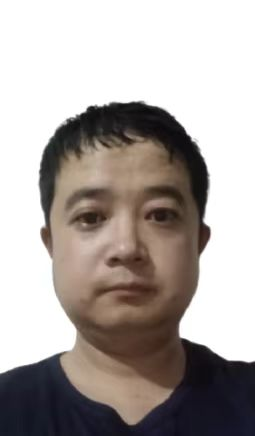
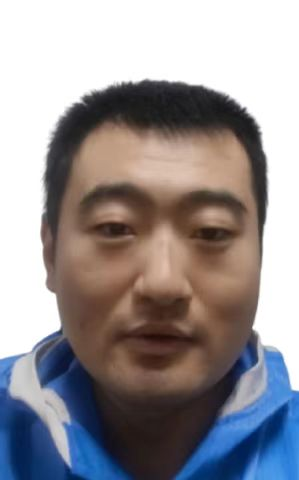
1111

diff --git a/health.html b/health.html
@@ -171,11 +171,11 @@
                                 </tr>
                                   <!-- 海07492100691  44970117  前部分固定形式，后面可变-->
                                 <tr>
-                                  <td style="font-size: 10px;font-family: 宋体;font-weight: bold;word-break: break-all;">编号:海0749210069101312518
+                                  <td style="font-size: 10px;font-family: 宋体;font-weight: bold;word-break: break-all;">编号:海0749210069108025511
                                   </td>
                                 </tr>
                                 <tr>
-                                  <td style="font-size: 10px;font-family: 宋体;font-weight: bold;">日期:2025-07-05</td>
+                                  <td style="font-size: 10px;font-family: 宋体;font-weight: bold;">日期:2025-08-25</td>
                                 </tr>
                               </tbody>
                             </table>
@@ -191,7 +191,7 @@
                                       <tbody>
                                         <tr height="27">
                                           <td><span
-                                              style="font-family:宋体; font-size:26px;color: #000000;FONT-WEIGHT: bold;">徐蔚<span
+                                              style="font-family:宋体; font-size:26px;color: #000000;FONT-WEIGHT: bold;">刘新尧<span
                                                 style="font-family:宋体; font-size:16px;color: #000000;FONT-WEIGHT: bold;">（男）</span>
                                             </span></td>
                                         </tr>
@@ -201,7 +201,7 @@
                                         </tr>
                                         <tr>
                                           <td><span
-                                              style="font-family:宋体; font-size:11px;color: #000000;FONT-WEIGHT: bold;">身份证号: 3706131993********</span>
+                                              style="font-family:宋体; font-size:11px;color: #000000;FONT-WEIGHT: bold;">身份证号: 3706861993********</span>
                                           </td>
                                         </tr>
                                       </tbody>
@@ -225,43 +225,43 @@
                                                 <tr align="center">
                                                   <td align="left">细菌性痢疾</td>
                                                   <td>合格</td>
-                                                  <td>2025年07月04日</td>
+                                                  <td>2025年08月24日</td>
                                                 </tr>
 
                                                 <tr align="center">
                                                   <td align="left">伤寒和副伤寒</td>
                                                   <td>合格</td>
-                                                  <td>2025年07月04日</td>
+                                                  <td>2025年08月24日</td>
                                                 </tr>
 
                                                 <tr align="center">
                                                   <td align="left">病毒性肝炎（甲戊肝）</td>
                                                   <td>合格</td>
-                                                  <td>2025年07月04日</td>
+                                                  <td>2025年08月24日</td>
                                                 </tr>
 
                                                 <tr align="center">
                                                   <td align="left">活动性肺结核</td>
                                                   <td>合格</td>
-                                                  <td>2025年07月04日</td>
+                                                  <td>2025年08月24日</td>
                                                 </tr>
 
                                                 <tr align="center">
                                                   <td align="left">化脓性或渗出性皮肤病</td>
                                                   <td>合格</td>
-                                                  <td>2025年07月04日</td>
+                                                  <td>2025年08月24日</td>
                                                 </tr>
 
                                                 <tr align="center">
                                                   <td align="left">霍乱</td>
                                                   <td>合格</td>
-                                                  <td>2025年07月04日</td>
+                                                  <td>2025年08月24日</td>
                                                 </tr>
 
                                                 <tr align="center">
                                                   <td align="left">阿米巴性疾病</td>
                                                   <td>合格</td>
-                                                  <td>2025年07月04日</td>
+                                                  <td>2025年08月24日</td>
                                                 </tr>
 
                                               </tbody>
@@ -308,7 +308,7 @@
                           <td>
                             <font style="FONT-SIZE: 12px;">姓　名：</font>
                           </td>
-                          <td><span style="font-family:黑体; font-size:14px;color: #000000;FONT-WEIGHT: bold;"> 徐蔚</span>
+                          <td><span style="font-family:黑体; font-size:14px;color: #000000;FONT-WEIGHT: bold;"> 刘新尧</span>
                           </td>
                         </tr>
                         <tr>
@@ -324,7 +324,7 @@
                           </td>
                           <td width="110"><span
                               style="font-family:黑体; font-size:14px;color: #000000;FONT-WEIGHT: bold;">
-                              2025年07月04日</span></td>
+                              2025年08月24日</span></td>
                         </tr>
                         <tr>
                           <td>
@@ -403,7 +403,7 @@
               姓名
             </td>
             <td colspan="3">
-              &nbsp;徐蔚&nbsp;
+              &nbsp;刘新尧&nbsp;
             </td>
             <td colspan="2">
               性别
@@ -417,7 +417,7 @@
               身份证号码
             </td>
             <td colspan="8" style="border-right: 1px solid black;">
-              &nbsp; 3706131993********&nbsp;
+              &nbsp; 3706861993********&nbsp;
             </td>
           </tr>
           <tr>
@@ -467,7 +467,7 @@
               &nbsp;崔亚欣&nbsp;
             </td>
             <td style="border-right: 1px solid black;">
-              &nbsp;2025年07月04日&nbsp;
+              &nbsp;2025年08月24日&nbsp;
             </td>
           </tr>
           <tr>
@@ -487,7 +487,7 @@
               &nbsp;崔亚欣&nbsp;
             </td>
             <td style="border-right: 1px solid black;">
-              &nbsp;2025年07月04日&nbsp;
+              &nbsp;2025年08月24日&nbsp;
             </td>
           </tr>
           <tr style="padding-top: 10px">
@@ -508,7 +508,7 @@
               &nbsp;王梦丽&nbsp;
             </td>
             <td style="border-right: 1px solid black;">
-              &nbsp;2025年07月04日&nbsp;
+              &nbsp;2025年08月24日&nbsp;
             </td>
           </tr>
           <tr>
@@ -528,7 +528,7 @@
               &nbsp;宋新春&nbsp;
             </td>
             <td style="border-right: 1px solid black;">
-              &nbsp;2025年07月04日&nbsp;
+              &nbsp;2025年08月24日&nbsp;
             </td>
           </tr>
           <tr>
@@ -548,7 +548,7 @@
               &nbsp;刘新武&nbsp;
             </td>
             <td style="border-right: 1px solid black;">
-              &nbsp;2025年07月04日&nbsp;
+              &nbsp;2025年08月24日&nbsp;
             </td>
           </tr>
           <tr style="padding-top: 10px">
@@ -589,7 +589,7 @@
               &nbsp;崔亚欣&nbsp;
             </td>
             <td style="border-right: 1px solid black;">
-              &nbsp;2025年07月04日&nbsp;
+              &nbsp;2025年08月24日&nbsp;
             </td>
           </tr>
           <tr>
@@ -609,7 +609,7 @@
               &nbsp;崔亚欣&nbsp;
             </td>
             <td style="border-right: 1px solid black;">
-              &nbsp;2025年07月04日&nbsp;
+              &nbsp;2025年08月24日&nbsp;
             </td>
           </tr>
           <tr>
@@ -674,7 +674,7 @@
             <td>（盖章有效）</td>
             <td width="280px"></td>
             <td>日期：</td>
-            <td>&nbsp;2025年07月04日</td>
+            <td>&nbsp;2025年08月24日</td>
           </tr>
           <tr height="50px">
             <td colspan="4">&nbsp;</td>
@@ -755,7 +755,7 @@
             </tr>
             <tr>
               <td style="font-size:15px;text-align: right">
-                报告日期：2025年07月04日&nbsp;&nbsp;&nbsp;&nbsp;&nbsp;&nbsp;&nbsp;&nbsp;&nbsp;&nbsp;&nbsp;&nbsp;</td>
+                报告日期：2025年08月24日&nbsp;&nbsp;&nbsp;&nbsp;&nbsp;&nbsp;&nbsp;&nbsp;&nbsp;&nbsp;&nbsp;&nbsp;</td>
             </tr>
           </tbody>
         </table>
@@ -774,7 +774,7 @@
               <td>（盖章有效）</td>
               <td width="280px"></td>
               <td>日期：</td>
-              <td>&nbsp;2025年07月04日</td>
+              <td>&nbsp;2025年08月24日</td>
             </tr>
             <tr height="50px">
               <td colspan="4">&nbsp;</td>
@@ -832,7 +832,7 @@
 
             <tr>
               <td style="font-size:15px;text-align: right" colspan="2">
-                报告日期：2025年07月04日&nbsp;&nbsp;&nbsp;&nbsp;&nbsp;&nbsp;&nbsp;&nbsp;&nbsp;&nbsp;&nbsp;&nbsp;</td>
+                报告日期：2025年08月24日&nbsp;&nbsp;&nbsp;&nbsp;&nbsp;&nbsp;&nbsp;&nbsp;&nbsp;&nbsp;&nbsp;&nbsp;</td>
             </tr>
 
           </tbody>
@@ -852,7 +852,7 @@
               <td>（盖章有效）</td>
               <td width="280px"></td>
               <td>日期：</td>
-              <td>&nbsp;2025年07月04日</td>
+              <td>&nbsp;2025年08月24日</td>
             </tr>
             <tr height="50px">
               <td colspan="4">&nbsp;</td>